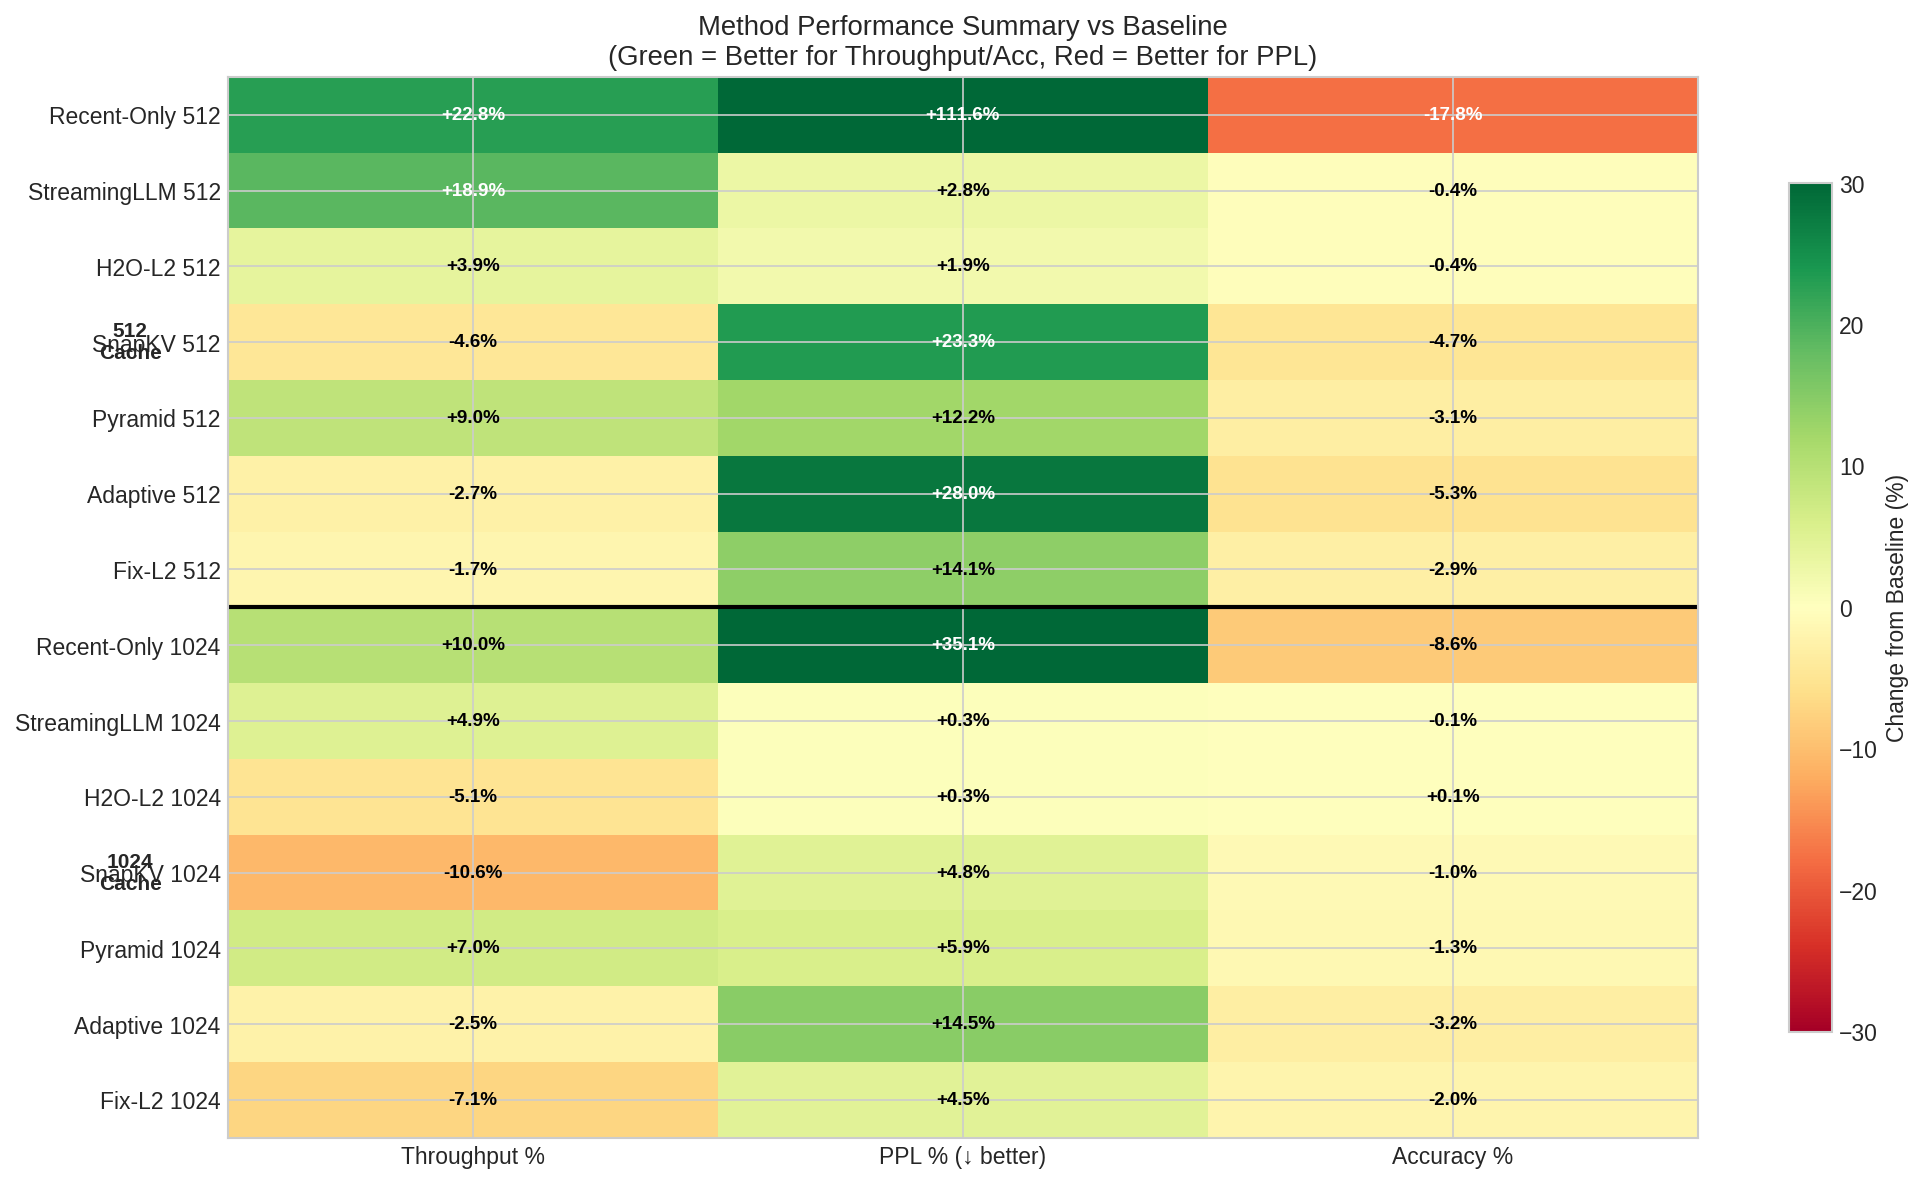
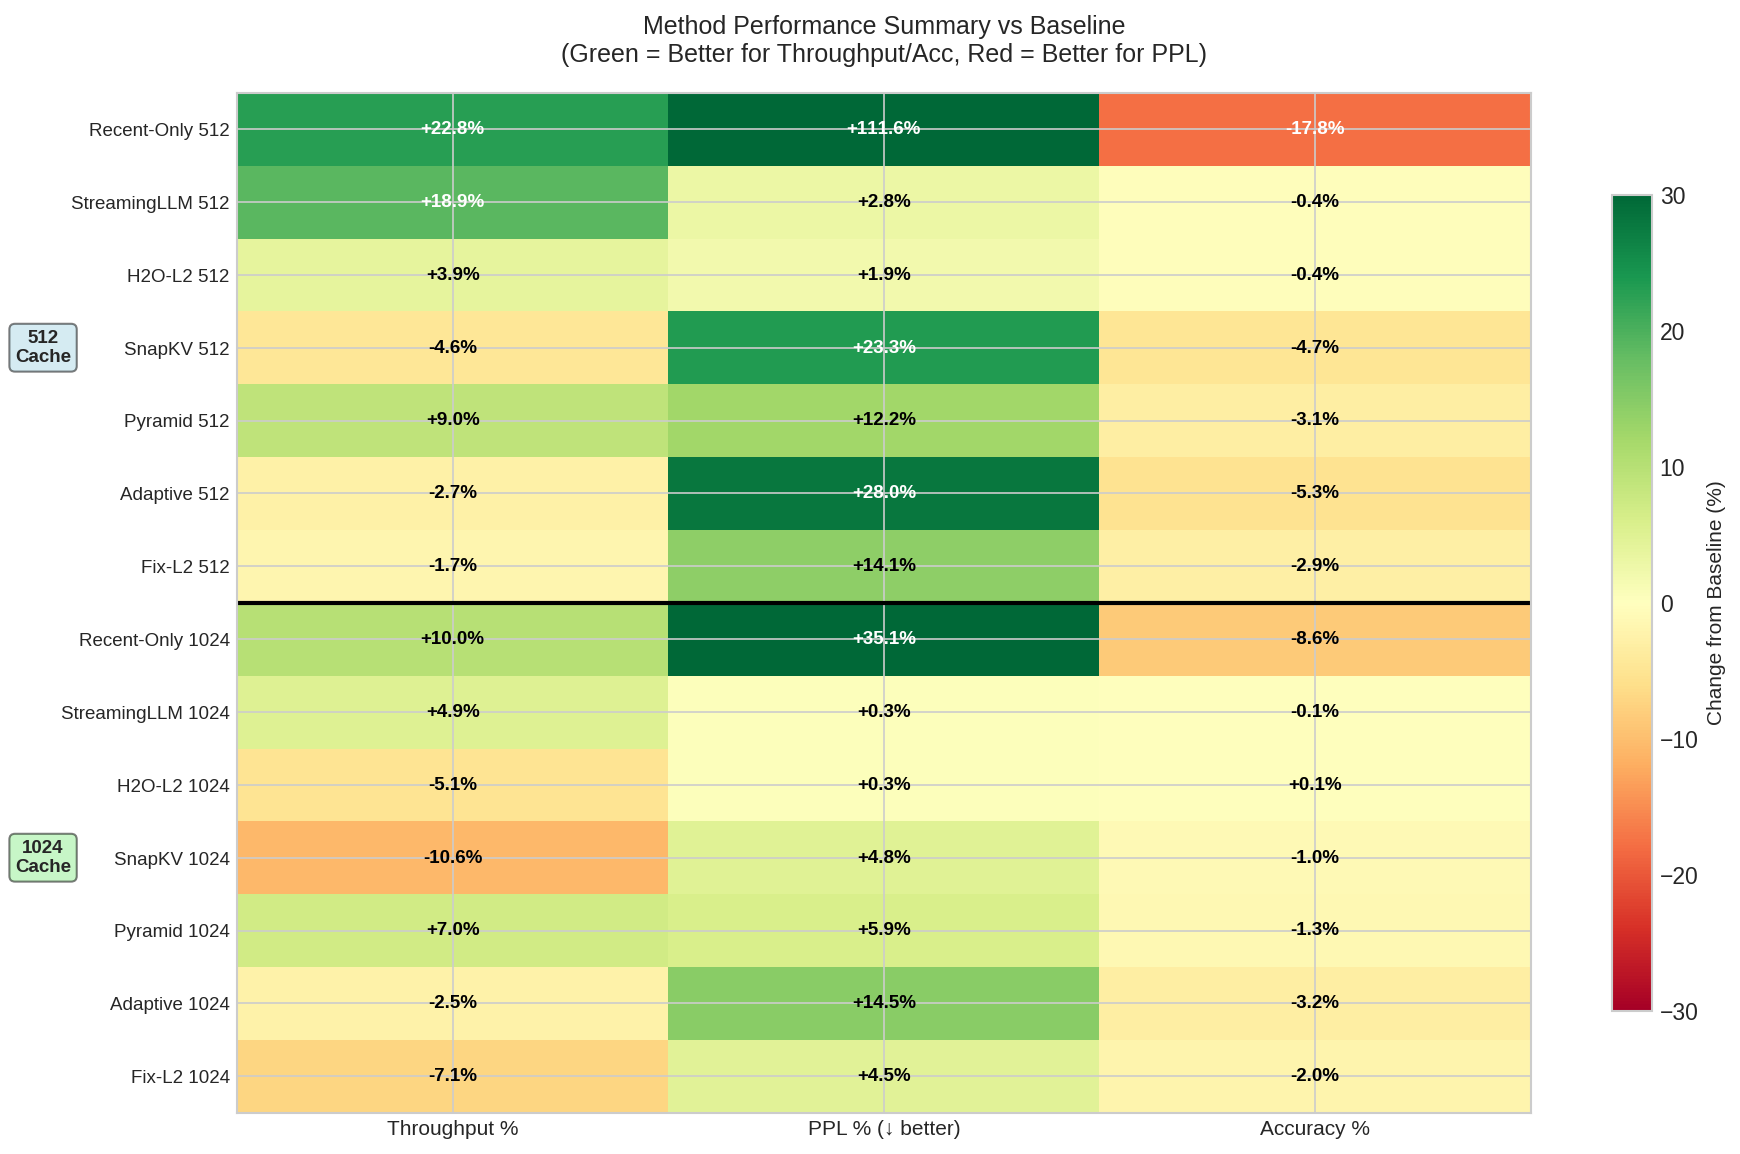
完善readme文档

Changed region(s): [[0.0, 0.0, 0.9931, 0.9983], [0.7138, 0.6551, 0.7759, 0.6863], [0.7448, 0.7175, 0.7759, 0.7487]]

diff --git a/scripts/plot_comprehensive_results.py b/scripts/plot_comprehensive_results.py
@@ -248,9 +248,9 @@ def plot_method_summary():
     
     # Set labels
     ax.set_xticks([0, 1, 2])
-    ax.set_xticklabels(['Throughput %', 'PPL % (↓ better)', 'Accuracy %'])
+    ax.set_xticklabels(['Throughput %', 'PPL % (↓ better)', 'Accuracy %'], fontsize=10)
     ax.set_yticks(range(len(labels)))
-    ax.set_yticklabels(labels)
+    ax.set_yticklabels(labels, fontsize=9)  # Reduced font size for y labels
     
     # Add text annotations
     for i in range(len(labels)):
@@ -266,16 +266,23 @@ def plot_method_summary():
     
     # Add colorbar
     cbar = plt.colorbar(im, ax=ax, shrink=0.8)
-    cbar.set_label('Change from Baseline (%)')
+    cbar.set_label('Change from Baseline (%)', fontsize=10)
     
-    ax.set_title('Method Performance Summary vs Baseline\n(Green = Better for Throughput/Acc, Red = Better for PPL)')
+    ax.set_title('Method Performance Summary vs Baseline\n(Green = Better for Throughput/Acc, Red = Better for PPL)', 
+                fontsize=12, pad=15)
     
     # Add separating line between 512 and 1024
     ax.axhline(y=6.5, color='black', linewidth=2)
-    ax.text(-0.7, 3, '512\nCache', ha='center', va='center', fontsize=10, fontweight='bold')
-    ax.text(-0.7, 10, '1024\nCache', ha='center', va='center', fontsize=10, fontweight='bold')
     
-    plt.tight_layout()
+    # Add cache size labels with adjusted position to avoid overlap
+    # Place them further left and with smaller font
+    ax.text(-0.95, 3, '512\nCache', ha='center', va='center', fontsize=9, fontweight='bold',
+           bbox=dict(boxstyle='round,pad=0.3', facecolor='lightblue', alpha=0.5))
+    ax.text(-0.95, 10, '1024\nCache', ha='center', va='center', fontsize=9, fontweight='bold',
+           bbox=dict(boxstyle='round,pad=0.3', facecolor='lightgreen', alpha=0.5))
+    
+    # Adjust subplot to make room for labels on the left
+    plt.subplots_adjust(left=0.18, right=0.95, top=0.93, bottom=0.08)
     plt.savefig('results/method_summary_heatmap.png', dpi=150, bbox_inches='tight')
     print("Saved: results/method_summary_heatmap.png")
     plt.close()

diff --git a/README.md b/README.md
@@ -394,23 +394,23 @@ Layer i 的 cache size = base_size * (layer_decay ^ i)
 
 ![Cache Efficiency](results/cache_efficiency.png)
 
-### 关键发现
+### 多种压缩方法效果对比与分析
 
-🏆 **最佳方法: StreamingLLM**
+#### **StreamingLLM：综合效果最优**
 - **StreamingLLM-512**: 吞吐量提升 18.9%，PPL 仅增加 2.8%，Accuracy 几乎无损失 (-0.4%)
 - **StreamingLLM-1024**: 质量几乎与 Baseline 相同，PPL 仅增加 0.3%
 
-✅ **H2O-L2 表现突出**:
+#### **H2O-L2：表现相对比较优秀**:
 - **H2O-L2-512**: PPL 仅增加 1.9%（512 方法中最低）
 - **H2O-L2-1024**: PPL 仅增加 0.3%，Accuracy 甚至略有提升 (+0.1%)
 - 通过保留 attention sinks + heavy hitters + recent tokens 实现更好的信息保留
 
-⚠ **Recent-Only 对照组**:
+#### **Recent-Only 对照组**:
 - **Recent-Only-512**: PPL 增加 111.5%，Accuracy 下降 17.8%
 - **Recent-Only-1024**: PPL 增加 35.1%，Accuracy 下降 8.6%
 - 说明保留 attention sinks 的重要性
 
-📊 **其他方法分析**:
+#### **其他方法分析**:
 - **Pyramid KV**: 吞吐量提升 7-9%，PPL 增加 6-12%，适合层级优化
 - **SnapKV-Lite**: 1024 配置下质量较好 (PPL +4.8%)，但吞吐量下降
 - **Adaptive L2**: 动态压缩，适合变长输入场景
